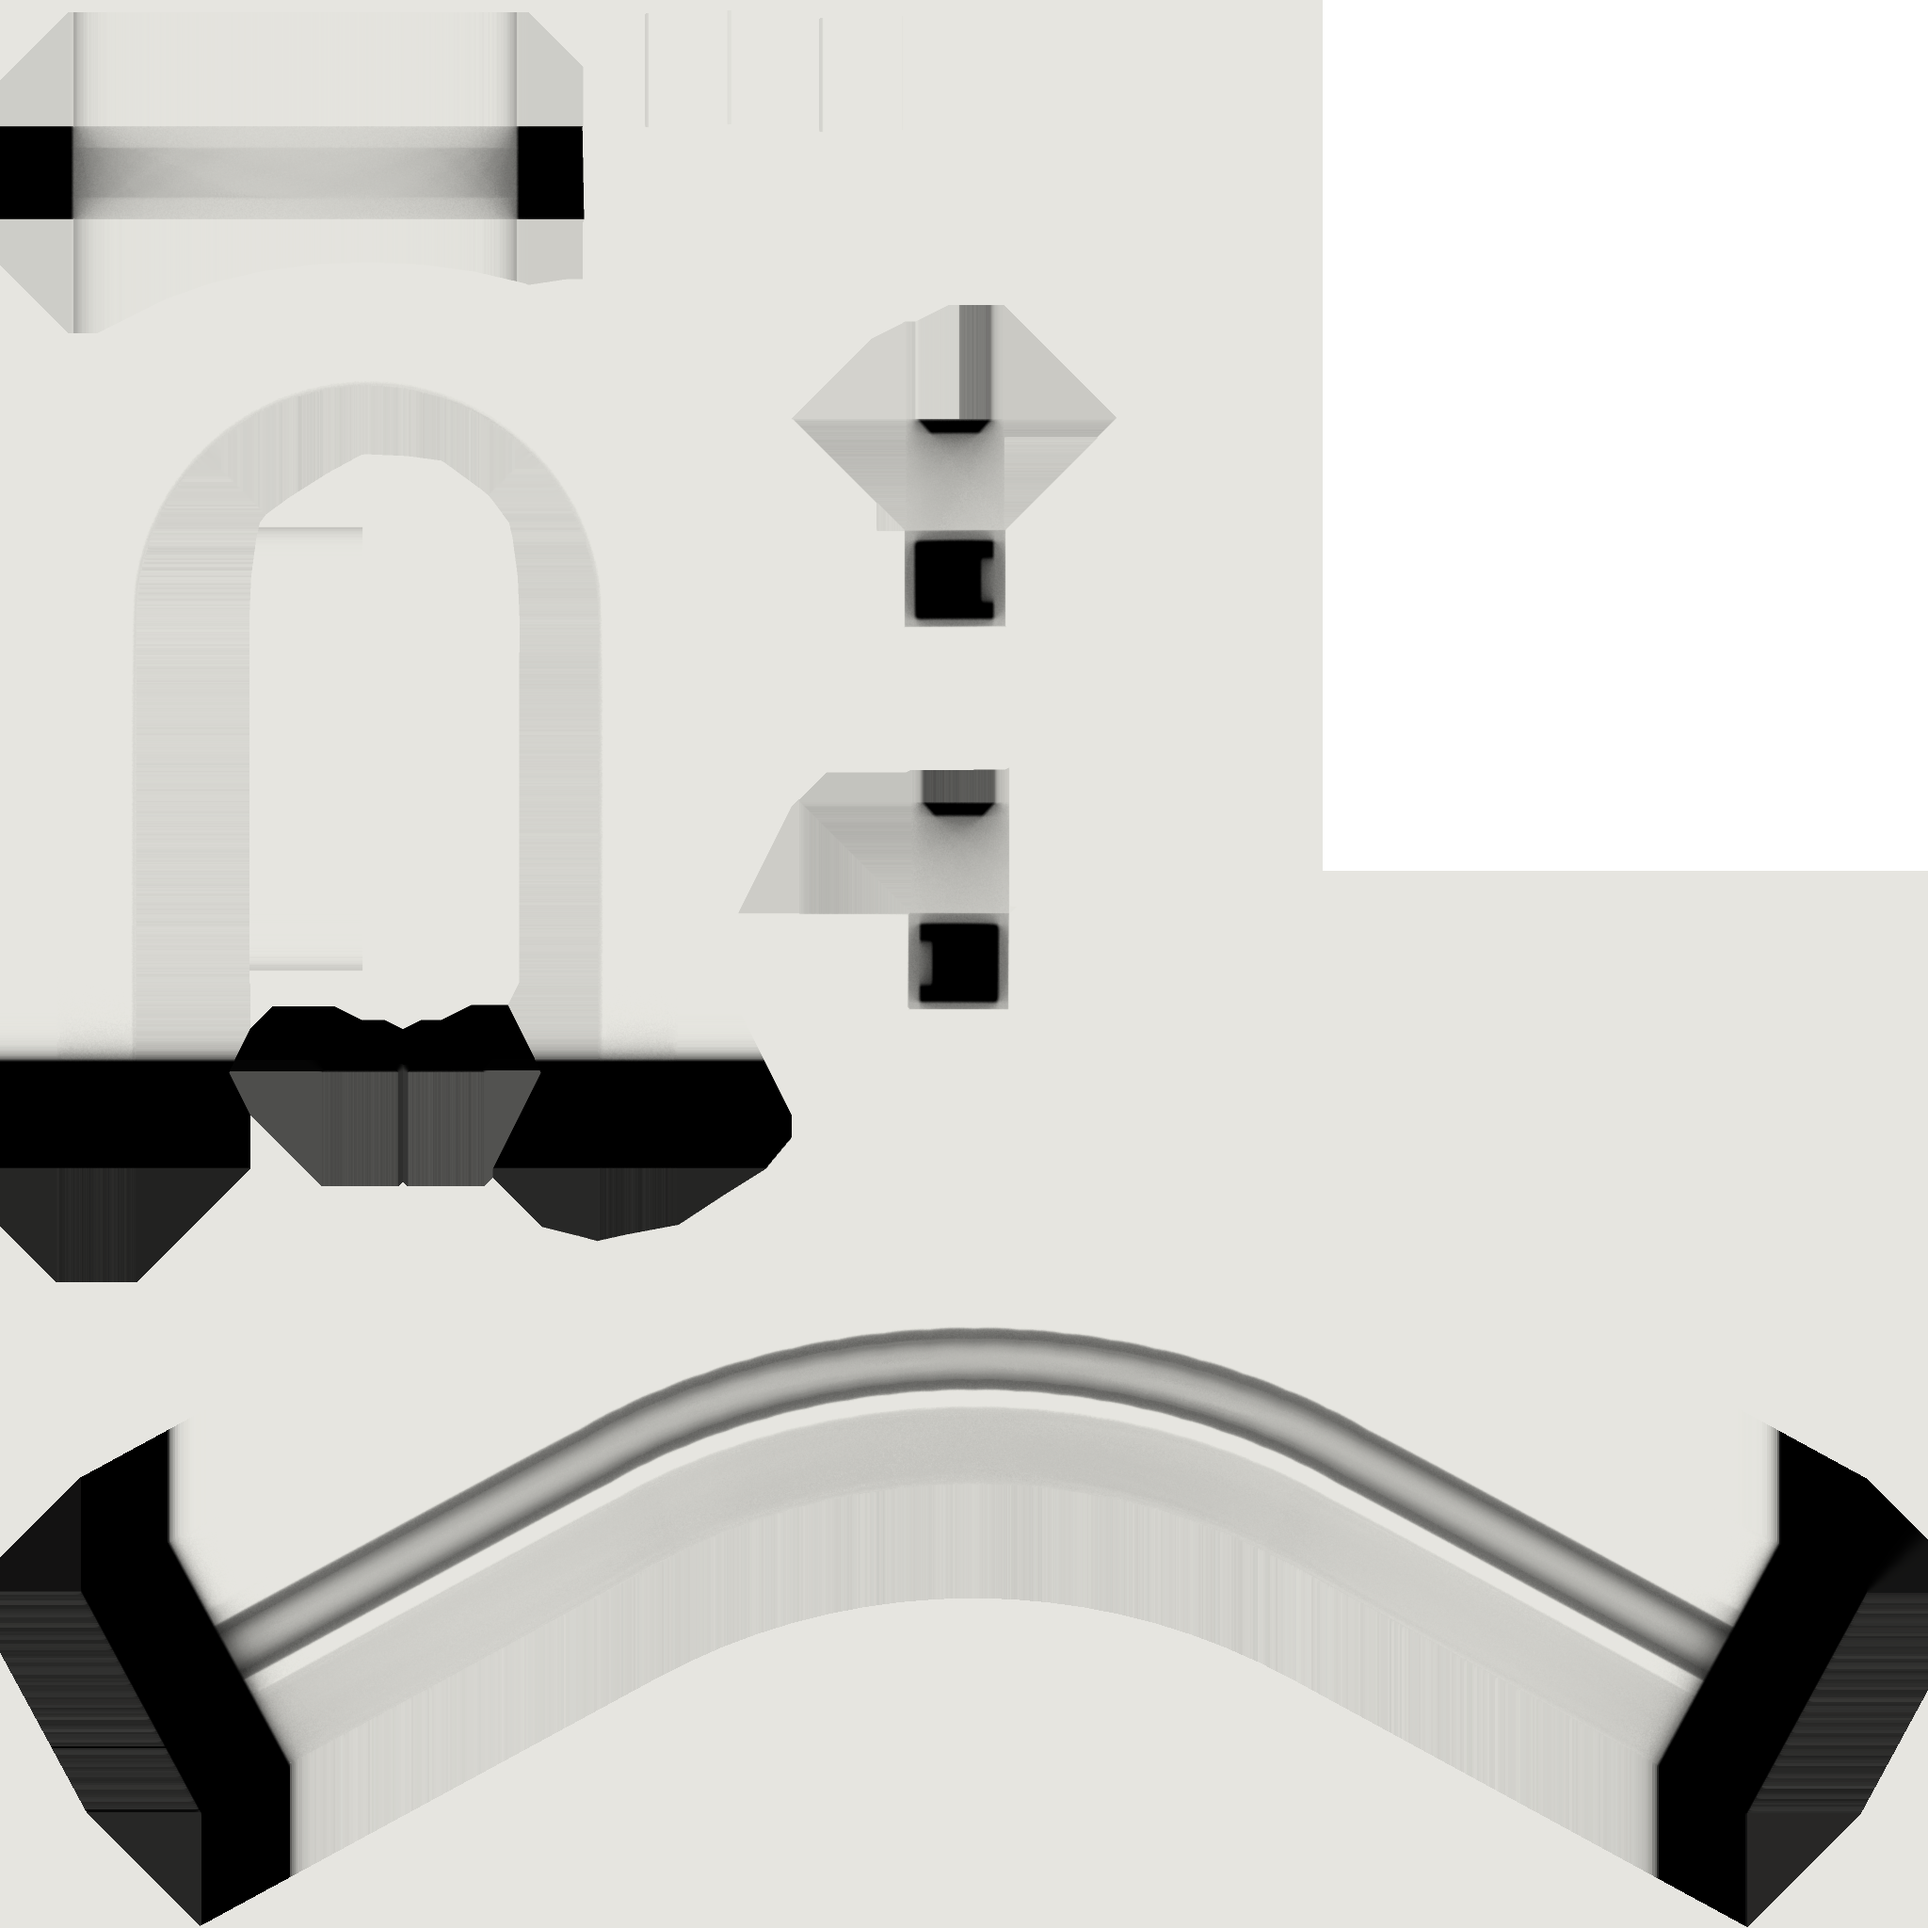
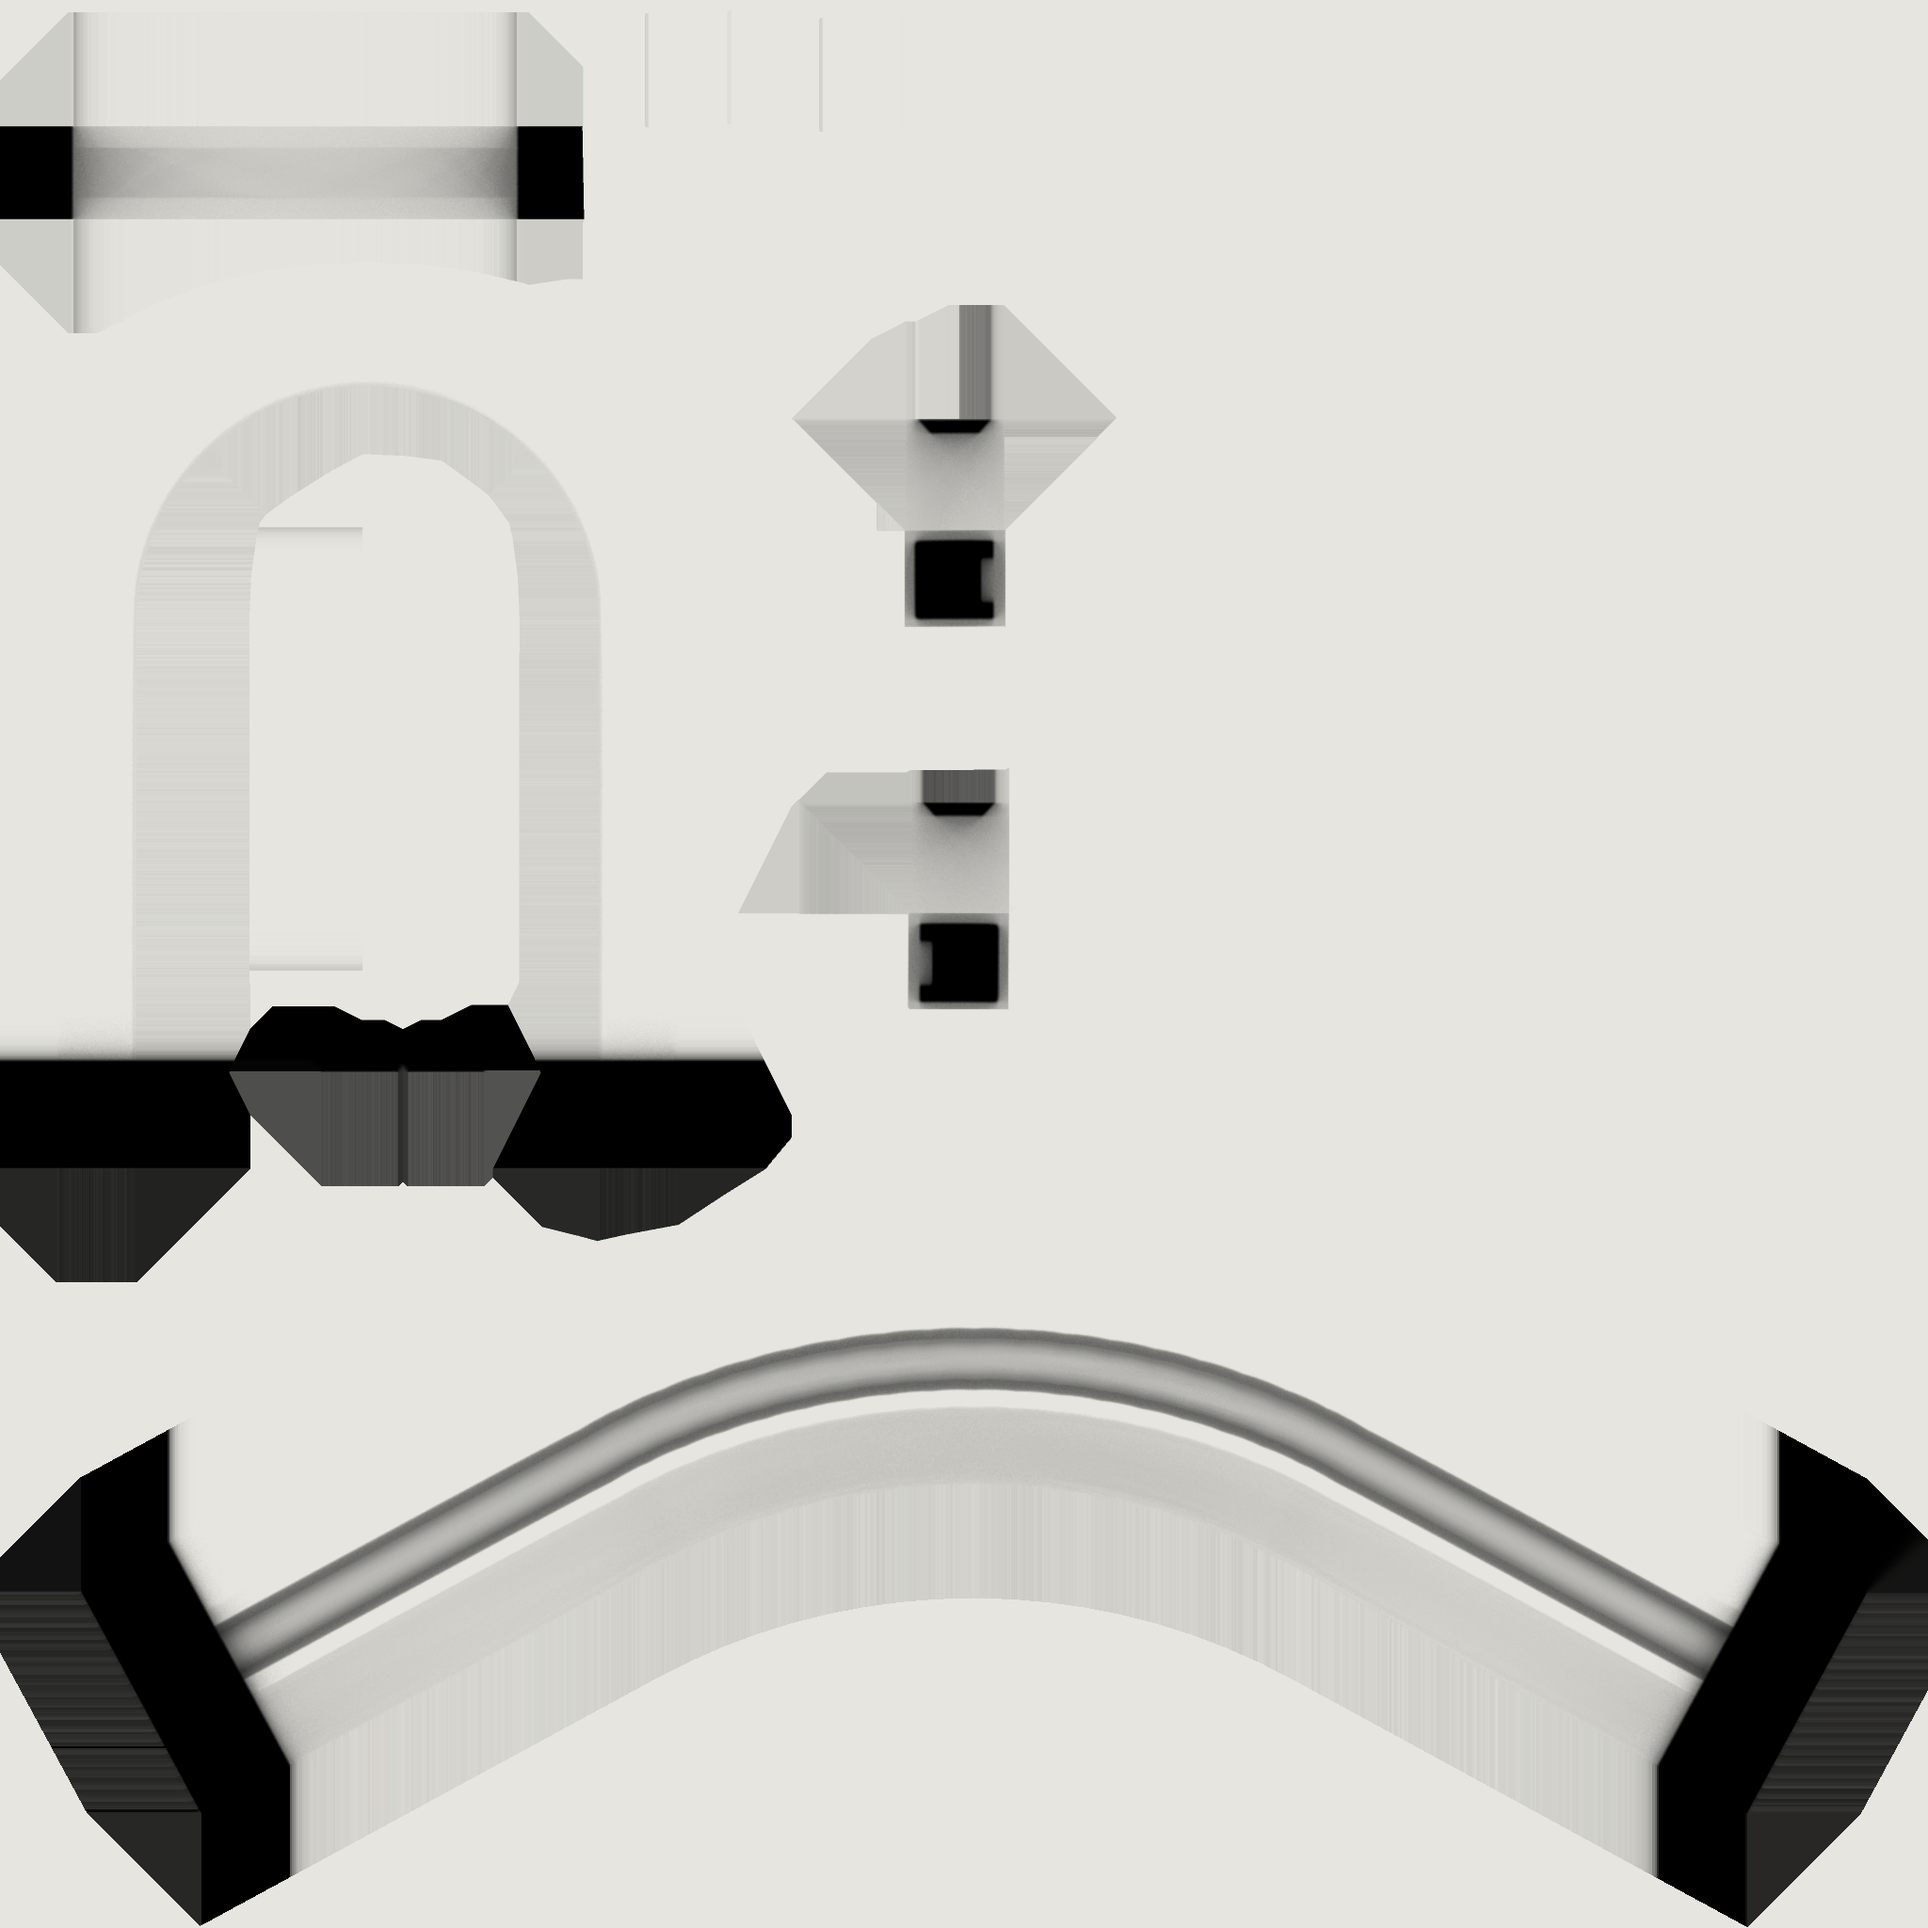
Update the portal archway
Former-commit-id: 7b47f1d974c4bf63802d9323e5895ac5ba22200c
Former-commit-id: 090a930bc90aab95d793df5af3723166f0343786

Changed region(s): [[0.6875, 0.0, 1.0, 0.4688]]

diff --git a/Figment/js/model/PortalItems.js b/Figment/js/model/PortalItems.js
@@ -15,7 +15,10 @@ var PortalItems = [
     "scale": [1, 1, 1],
     "portalScale": [.4, .4, .4], // scale on the portal, normalizes its height to ~1
     "position": [0, .5, 0],
-    "resources": [require('../res/portal_archway/portal_archway_normal.png'), require('../res/portal_archway/portal_archway_diffuse.png'),require('../res/portal_archway/portal_archway_specular.png')],
+    "resources": [require('../res/portal_archway/portal_archway_normal.png'),
+                  require('../res/portal_archway/portal_archway_diffuse.png'),
+                  require('../res/portal_archway/portal_archway_specular.png'),
+                  require('../res/portal_archway/portal_entry.png')],
   },
   {
     "selected": false,
